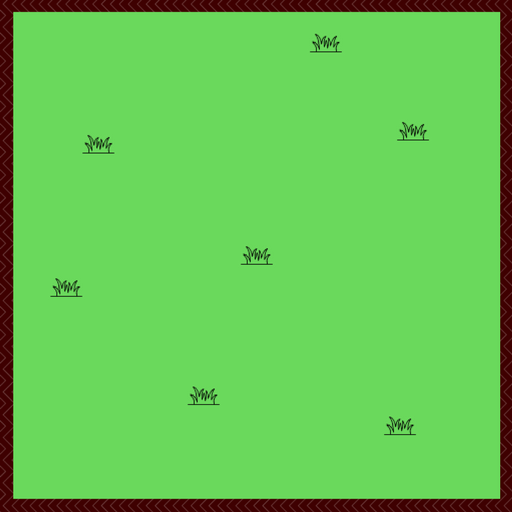
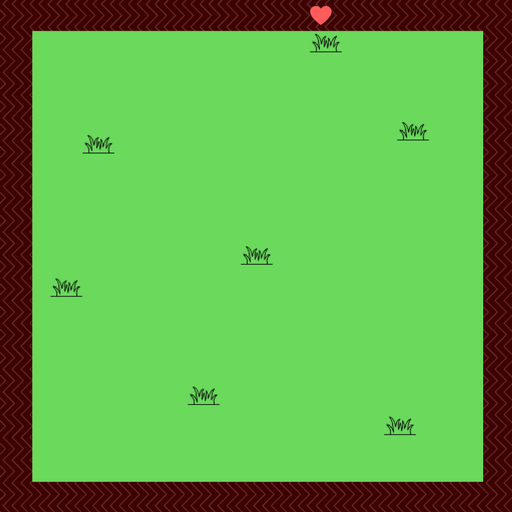
Tweak gameplay difficulty

Changed region(s): [[0.0, 0.0, 1.0, 1.0]]

diff --git a/src/index.js b/src/index.js
@@ -38,6 +38,10 @@ function setup() {
   gameScene = new Container();
   gameStage.addChild(gameScene);
 
+  gameOverScene = new Container();
+  gameOverScene.visible = false;
+  gameStage.addChild(gameOverScene);
+
   // Add gameboard to Scene
   gameBoard = new Sprite(Loader.resources["images/game-board.png"].texture);
   gameScene.addChild(gameBoard);
@@ -45,7 +49,7 @@ function setup() {
   // Add the Pig to the Scene
   pig = new Sprite(Loader.resources["images/pig.png"].texture);
   // Place the pig on the X-Axis
-  pig.x = 68;
+  pig.x = 30;
   // Place the pig halfway down the gameScene
   pig.y = gameScene.height / 2 - pig.height / 2;
   // Set the X-axis velocity to zero (not moving)
@@ -67,13 +71,13 @@ function setup() {
   // Add the Barn to the Scene
   barn = new Sprite(Loader.resources["images/barn.png"].texture);
   // Place the barn on the X-Axis, not the Y-axis
-  barn.position.set(10,0);
+  barn.position.set(35,0);
   // Add the barn to the scene
   gameScene.addChild(barn);
 
   //Create the health bar
   healthBar = new PIXI.DisplayObjectContainer();
-  healthBar.position.set(gameStage.width - 170, 6)
+  healthBar.position.set(gameStage.width - 170, 12)
   gameScene.addChild(healthBar);
 
   //Create the black background rectangle
@@ -85,7 +89,7 @@ function setup() {
 
   //Create the front red rectangle
   let outerBar = new PIXI.Graphics();
-  outerBar.beginFill(0xFF3300);
+  outerBar.beginFill(0xff5c5c);
   outerBar.drawRect(0, 0, 128, 8);
   outerBar.endFill();
   healthBar.addChild(outerBar);
@@ -93,10 +97,10 @@ function setup() {
   healthBar.outer = outerBar;
 
   // Bacon Pieces attributes
-  let numberOfBacons        = 6,
+  let numberOfBacons        = 8,
       spacingBetweenBacons  = 48,
-      xOffset               = 150,
-      speedOfMovement       = 2,
+      xOffset               = 120,
+      speedOfMovement       = 3,
       directionOfMovement   = 1;
 
   bacons = [];
@@ -125,8 +129,6 @@ function setup() {
     // Add all the bacons to the game scene
     gameScene.addChild(bacon);
   }
-
-  // Pig Movement Logic
 
   // Capture the keyboard arrow keys
     var left  = gameHelpers.keyboard(37),
@@ -201,10 +203,13 @@ function play() {
   });
 
   if(pigHit) {
+    // Make piggy opaque if it gets hit, same with the hay
     pig.alpha = 0.5;
-    healthBar.outer.width -= 1;
+    hay.alpha = 0.5;
+    healthBar.outer.width -= 4;
   } else {
     pig.alpha = 1;
+    hay.alpha = 1;
   }
 
   if(gameHelpers.collisionCheckRectangle(pig, hay)) {
@@ -224,5 +229,6 @@ function play() {
 
 // End Function - what happens when the game has ended?
 function end() {
-
+  gameScene.visible = false;
+  gameOverScene.visible = true;
 };

diff --git a/bundle.js b/bundle.js
@@ -92,6 +92,10 @@
 	  gameScene = new Container();
 	  gameStage.addChild(gameScene);
 
+	  gameOverScene = new Container();
+	  gameOverScene.visible = false;
+	  gameStage.addChild(gameOverScene);
+
 	  // Add gameboard to Scene
 	  gameBoard = new Sprite(Loader.resources["images/game-board.png"].texture);
 	  gameScene.addChild(gameBoard);
@@ -99,7 +103,7 @@
 	  // Add the Pig to the Scene
 	  pig = new Sprite(Loader.resources["images/pig.png"].texture);
 	  // Place the pig on the X-Axis
-	  pig.x = 68;
+	  pig.x = 30;
 	  // Place the pig halfway down the gameScene
 	  pig.y = gameScene.height / 2 - pig.height / 2;
 	  // Set the X-axis velocity to zero (not moving)
@@ -121,13 +125,13 @@
 	  // Add the Barn to the Scene
 	  barn = new Sprite(Loader.resources["images/barn.png"].texture);
 	  // Place the barn on the X-Axis, not the Y-axis
-	  barn.position.set(10, 0);
+	  barn.position.set(35, 0);
 	  // Add the barn to the scene
 	  gameScene.addChild(barn);
 
 	  //Create the health bar
 	  healthBar = new PIXI.DisplayObjectContainer();
-	  healthBar.position.set(gameStage.width - 170, 6);
+	  healthBar.position.set(gameStage.width - 170, 12);
 	  gameScene.addChild(healthBar);
 
 	  //Create the black background rectangle
@@ -139,7 +143,7 @@
 
 	  //Create the front red rectangle
 	  var outerBar = new PIXI.Graphics();
-	  outerBar.beginFill(0xFF3300);
+	  outerBar.beginFill(0xff5c5c);
 	  outerBar.drawRect(0, 0, 128, 8);
 	  outerBar.endFill();
 	  healthBar.addChild(outerBar);
@@ -147,10 +151,10 @@
 	  healthBar.outer = outerBar;
 
 	  // Bacon Pieces attributes
-	  var numberOfBacons = 6,
+	  var numberOfBacons = 8,
 	      spacingBetweenBacons = 48,
-	      xOffset = 150,
-	      speedOfMovement = 2,
+	      xOffset = 120,
+	      speedOfMovement = 3,
 	      directionOfMovement = 1;
 
 	  bacons = [];
@@ -179,8 +183,6 @@
 	    // Add all the bacons to the game scene
 	    gameScene.addChild(bacon);
 	  }
-
-	  // Pig Movement Logic
 
 	  // Capture the keyboard arrow keys
 	  var left = gameHelpers.keyboard(37),
@@ -269,10 +271,13 @@
 	  });
 
 	  if (pigHit) {
+	    // Make piggy opaque if it gets hit, same with the hay
 	    pig.alpha = 0.5;
-	    healthBar.outer.width -= 1;
+	    hay.alpha = 0.5;
+	    healthBar.outer.width -= 4;
 	  } else {
 	    pig.alpha = 1;
+	    hay.alpha = 1;
 	  }
 
 	  if (gameHelpers.collisionCheckRectangle(pig, hay)) {
@@ -290,7 +295,10 @@
 	};
 
 	// End Function - what happens when the game has ended?
-	function end() {};
+	function end() {
+	  gameScene.visible = false;
+	  gameOverScene.visible = true;
+	};
 
 /***/ },
 /* 1 */
